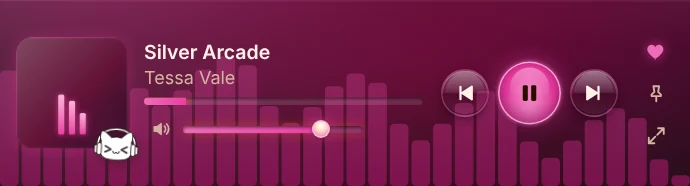
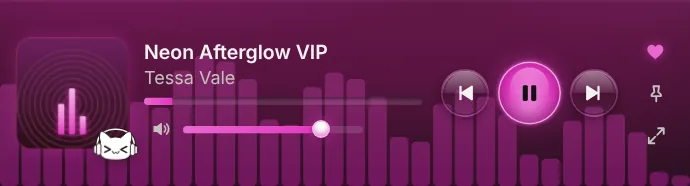
README: fresh screenshots (new Home, Search, Artist, playlist picker)
Claude-Session: https://claude.ai/code/session_01XBoJUt7xnghjYibM6YSw3B

diff --git a/README.md b/README.md
@@ -15,7 +15,7 @@
 </p>
 
 <p align="center">
-  <img src="docs/library.webp" alt="Sound2K library view" width="90%">
+  <img src="docs/home.webp" alt="Sound2K Home page" width="90%">
 </p>
 
 ---
@@ -55,9 +55,15 @@
 
 ## Screenshots
 
-| Now Playing | Playlist |
+| Home: quick picks & mixes | Liked Songs |
 |---|---|
-| <img src="docs/now-playing.webp" alt="Now Playing view"> | <img src="docs/playlist.webp" alt="Playlist with header"> |
+| <img src="docs/home-2.webp" alt="Home page with Quick picks and Mixes for you"> | <img src="docs/library.webp" alt="Liked Songs list"> |
+| **Search** | **Artist pages** |
+| <img src="docs/search.webp" alt="Search results"> | <img src="docs/artist.webp" alt="Artist page with Follow"> |
+| **Now Playing** | **Add to playlist** |
+| <img src="docs/now-playing.webp" alt="Now Playing view"> | <img src="docs/picker.webp" alt="Add to playlist picker"> |
+| **Playlists** | **Playlist** |
+| <img src="docs/playlists.webp" alt="Playlists grid"> | <img src="docs/playlist.webp" alt="Playlist with header"> |
 | **Equalizer** | **Crossfade & levelling** |
 | <img src="docs/equalizer.webp" alt="Equalizer page"> | <img src="docs/sound.webp" alt="Sound page"> |
 | **Queue slide-out** | **Dark theme** |
@@ -68,7 +74,7 @@
   <img src="docs/mini.webp" alt="Mini-player" width="460">
 </p>
 
-<sub>Screenshots use the built-in sample library; with your account you'll see your real covers.</sub>
+<sub>Screenshots use made-up sample tracks and generated cover art; signed in, you'll see your own library and real covers.</sub>
 
 ## Install
 
